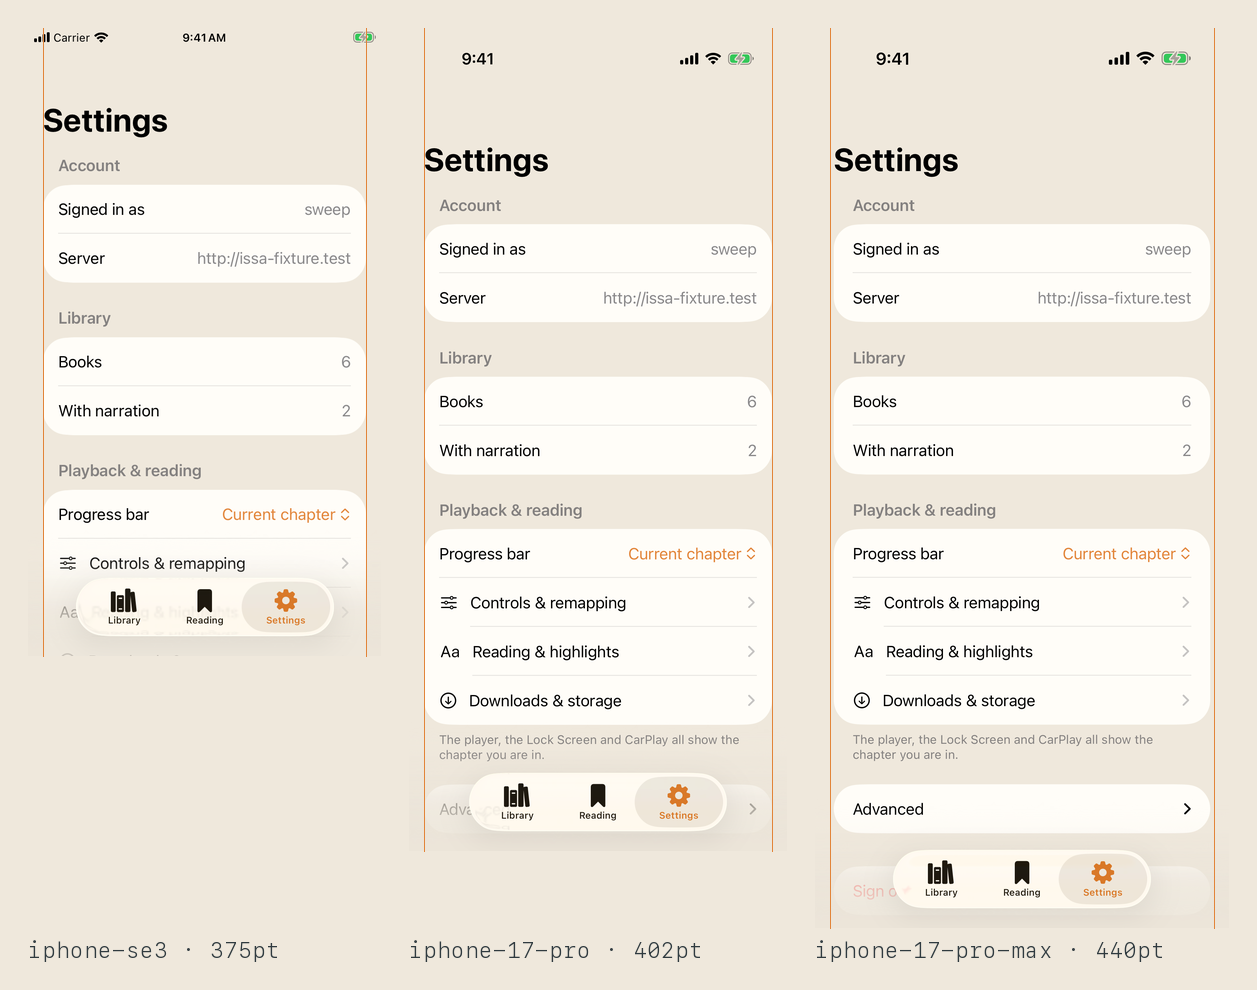
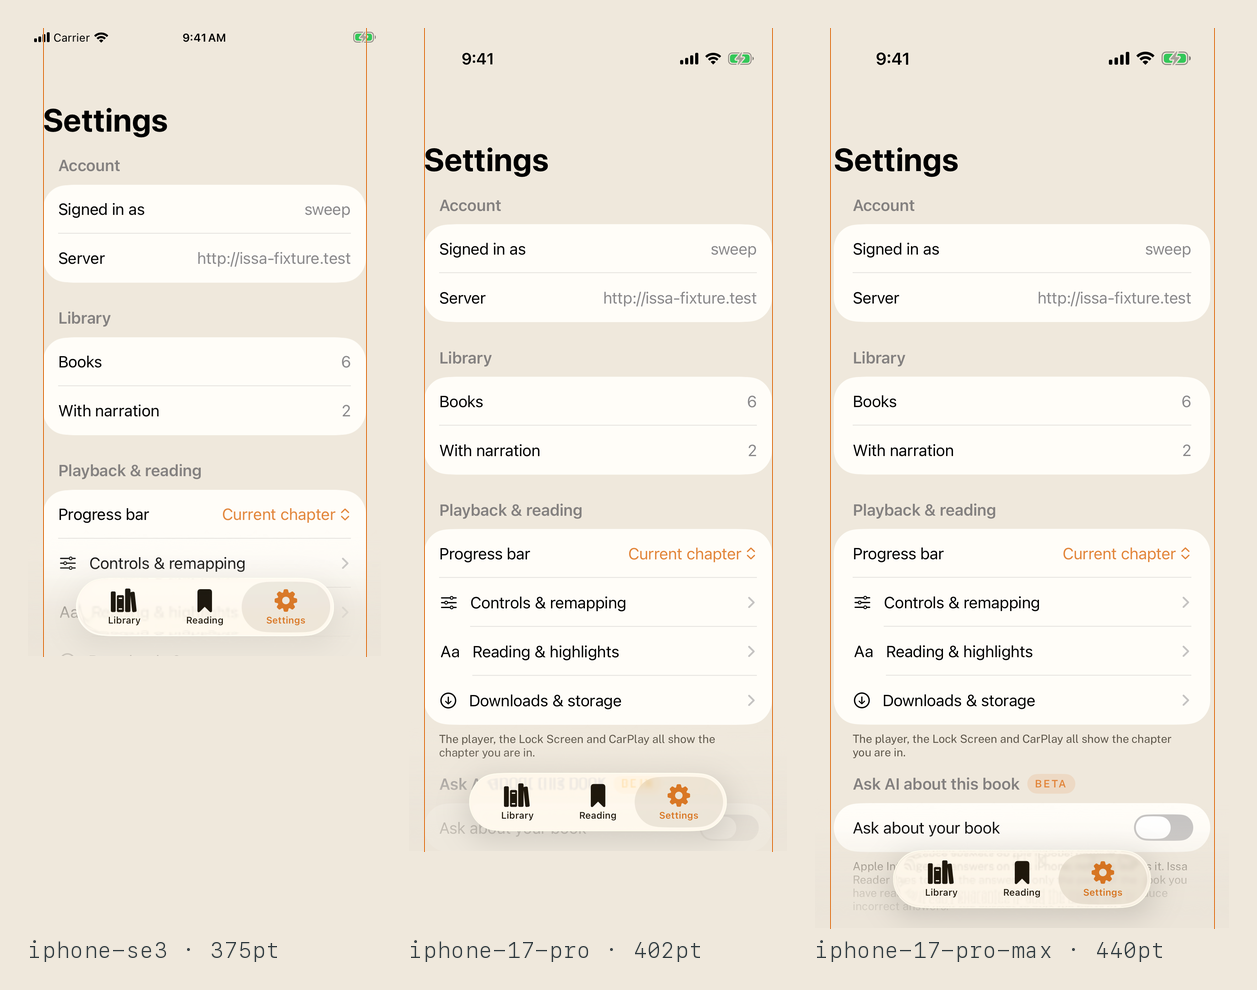
Reserve the Mac's chrome from what a window can actually tell us
The safe-area rung added yesterday never fires: a `GeometryProxy` inside
`.ignoresSafeArea()` reports 0 on the Mac, logged twice from a running build.
So it was a preference with nothing to prefer, and a test pinning behaviour
production never reaches.

What the same instrumentation showed instead is why the first line was
sometimes under the toolbar and sometimes not. At the instant the reader lays
out, the book's own window reports a 32-point gap between its frame and its
content — its toolbar is not attached yet — and 52 once it is;
`NSApplication.keyWindow` is as often nil, or the library window, or the
28-point Now Playing panel. Every source can be too small and none can be too
large, so the fallback becomes a floor: a titlebar and a toolbar, or the
measurement when that is larger. Over-reserving only adds air above the first
line; under-reserving is the bug.

Claude-Session: https://claude.ai/code/session_01YbLHtDvNuHEKJ7aSbFr8hK

diff --git a/Apps/IssaSharedTests/Sources/ReaderInsetsTests.swift b/Apps/IssaSharedTests/Sources/ReaderInsetsTests.swift
@@ -6,50 +6,52 @@ import Testing
 
 /// How far down its window the Mac reader's first line of text may begin.
 ///
-/// The arithmetic is trivial; which window it is about is the whole bug. A book
-/// opens in its own `WindowGroup`, and the reader asked `NSApplication.keyWindow`
-/// — which at first layout is as often the library or the Now Playing panel, a
-/// bare titlebar of about 28 points with no toolbar at all. The page then began
-/// 28 points down under a 52-point toolbar, and nothing ever re-measured it, so
-/// the first line of every book sat half under the chrome for as long as it was
-/// open.
+/// The arithmetic is trivial; knowing which number to trust is the whole bug.
+/// Measured from a running build, at the instant the reader lays out: the
+/// book's own window reports a 32-point gap between its frame and its content
+/// because the toolbar is not attached yet, and 52 once it is;
+/// `NSApplication.keyWindow` is as often nil, or the library window, or the
+/// 28-point Now Playing panel. Reserving any of the small numbers put the first
+/// line under a toolbar that was about to appear, which is why the same book
+/// opened cleanly one time and half under the chrome the next.
 ///
 /// These run on the iOS host, which is why the rule is a pure function outside
 /// the `#if os(macOS)` branch rather than a few lines inline in the branch. A
 /// helper the shared suite cannot reach is how this survived a release.
 @Suite("Where the Mac reader's page begins")
 struct ReaderInsetsTests {
-    @Test("this window's own safe area beats a measurement taken from another")
-    func thisWindowsSafeAreaBeatsAMeasurementFromAnother() {
-        // 52 is the reader's titlebar and toolbar, reported by its own geometry
-        // proxy. 28 is the library window's bare titlebar, which is what AppKit
-        // handed back while the reader was still opening.
-        #expect(ReaderInsets.mac(safeAreaTop: 52, measured: 28) == 52)
+    @Test("a window that has not shown its toolbar yet cannot shrink the reserve")
+    func aWindowWithoutItsToolbarYetCannotShrinkTheReserve() {
+        // 32 is the reader's own window, measured before its toolbar attaches.
+        // Taking it at its word is what put the first line under the chrome.
+        #expect(ReaderInsets.mac(measured: 32) == ReaderInsets.macChromeMinimum)
+        // 28 is the Now Playing panel's bare titlebar — the wrong window
+        // entirely, and the one `keyWindow` hands back most often.
+        #expect(ReaderInsets.mac(measured: 28) == ReaderInsets.macChromeMinimum)
     }
 
-    @Test("the AppKit measurement stands in until the safe area has an answer")
-    func theMeasurementStandsInUntilTheSafeAreaHasAnAnswer() {
-        // SwiftUI reports nothing for a layout pass or two, and the measurement
-        // is exact whenever it happens to be about the right window. Dropping
-        // it would trade a wrong number for a guessed one.
-        #expect(ReaderInsets.mac(safeAreaTop: 0, measured: 28) == 28)
+    @Test("a taller chrome than we assume is believed")
+    func aTallerChromeThanWeAssumeIsBelieved() {
+        // The floor is a floor, not a constant. A toolbar grown by an
+        // accessibility text size, or by a later macOS, has to be cleared too —
+        // and over-reserving only ever costs air above the first line.
+        #expect(ReaderInsets.mac(measured: 76) == 76)
     }
 
-    @Test("with no window to ask, the page falls back to a titlebar's height")
-    func withNoWindowToAskThePageFallsBackToATitlebarsHeight() {
-        // The very first pass, before there is a key window or a laid-out
-        // proxy. A starting value, corrected on the next pass.
-        #expect(ReaderInsets.mac(safeAreaTop: 0, measured: nil) == ReaderInsets.macTitlebarFallback)
+    @Test("with no window to ask, a titlebar and a toolbar are still reserved")
+    func withNoWindowToAskATitlebarAndAToolbarAreStillReserved() {
+        // The first layout pass, before there is a key window at all. This is
+        // the common case, not the corner: the reader lays out while the window
+        // it belongs to is still being made key.
+        #expect(ReaderInsets.mac(measured: nil) == ReaderInsets.macChromeMinimum)
     }
 
-    @Test("a negative inset is clamped rather than passed on")
-    func aNegativeInsetIsClampedRatherThanPassedOn() {
-        // A negative reserve would pull the page up *over* the toolbar, which
-        // is worse than the bug being fixed. Neither source is trusted to be
-        // positive: the safe area has been seen negative mid-transition, and
+    @Test("a negative measurement is a floor away from the page, not a hole in it")
+    func aNegativeMeasurementIsAFloorAwayFromThePage() {
         // `contentLayoutRect` can exceed the frame while a window is resizing.
-        #expect(ReaderInsets.mac(safeAreaTop: -12, measured: 28) == 28)
-        #expect(ReaderInsets.mac(safeAreaTop: -12, measured: -4) == ReaderInsets.macTitlebarFallback)
-        #expect(ReaderInsets.mac(safeAreaTop: -12, measured: nil) >= 0)
+        // A negative reserve would pull the page up *over* the toolbar, which
+        // is worse than the fault being fixed.
+        #expect(ReaderInsets.mac(measured: -4) == ReaderInsets.macChromeMinimum)
+        #expect(ReaderInsets.mac(measured: -4) > 0)
     }
 }

diff --git a/Apps/Shared/Sources/ReaderInsets.swift b/Apps/Shared/Sources/ReaderInsets.swift
@@ -14,13 +14,7 @@ import AppKit
 /// the status bar all change it, and anything measured against it re-paginates
 /// the chapter. Sampled once and held, so a chrome toggle cannot reach the page.
 enum ReaderInsets {
-    /// - Parameter safeAreaTop: What the reader's own geometry reports for its
-    ///   top inset. A `GeometryProxy` inside `.ignoresSafeArea()` still reports
-    ///   the insets the view is ignoring, so this is the reader window's own
-    ///   chrome and nobody else's — which is the whole reason it is passed in.
-    ///   Optional, and unused off the Mac, where the platform's own window is
-    ///   the one to ask.
-    static func current(safeAreaTop: CGFloat? = nil) -> EdgeInsets {
+    static func current() -> EdgeInsets {
         #if canImport(UIKit) && !os(tvOS)
         let window = UIApplication.shared.connectedScenes
             .compactMap { ($0 as? UIWindowScene)?.keyWindow }
@@ -42,13 +36,13 @@ enum ReaderInsets {
         // budget. Pad only the footer and the page keeps its old height, so
         // the last line is pushed under the bar instead.
         //
-        // Bottom only. The titlebar is the top's business, and the top comes
-        // from `mac(safeAreaTop:measured:)`.
+        // Bottom only. The titlebar is the top's business, and `mac` decides
+        // how much of it to keep clear.
         let measured = NSApplication.shared.keyWindow.map {
             max(0, $0.frame.height - $0.contentLayoutRect.height)
         }
         return EdgeInsets(
-            top: mac(safeAreaTop: safeAreaTop ?? 0, measured: measured), leading: 0,
+            top: mac(measured: measured), leading: 0,
             bottom: macWindowCornerInset, trailing: 0)
         #else
         // tvOS reads through TVReadalongView and has no window corners to
@@ -57,36 +51,30 @@ enum ReaderInsets {
         #endif
     }
 
-    /// How far down the reader's window its first line of text may begin: the
-    /// titlebar and the toolbar together.
+    /// How far down its window the Mac reader's first line of text may begin:
+    /// the titlebar and the toolbar together, and never less than one of each.
     ///
     /// Deliberately pure, and deliberately outside the `#if os(macOS)` branch.
     /// The shared suite runs on the iOS host, so a helper buried in the macOS
     /// arm is a helper nothing can test — which is how the reader shipped
-    /// measuring the wrong window.
+    /// reserving too little.
     ///
-    /// The reader's own safe area is preferred because it is the only source
-    /// that is certainly about *this* window. A book opens in its own
-    /// `WindowGroup`, and at first layout the key window is as likely to be the
-    /// library or the Now Playing panel — a bare 28-point titlebar with no
-    /// toolbar at all. The page then began 28 points down under a 52-point
-    /// toolbar, and the measurement was taken once and never corrected, so the
-    /// first line of the book stayed half under the chrome for as long as it
-    /// was open.
-    ///
-    /// The AppKit measurement is kept behind it rather than dropped: it is
-    /// exact when it is about the right window, and `safeAreaTop` is zero for
-    /// the layout pass or two before SwiftUI has an answer.
-    static func mac(safeAreaTop: CGFloat, measured: CGFloat?) -> CGFloat {
-        if safeAreaTop > 0 { return safeAreaTop }
-        if let measured, measured > 0 { return measured }
-        return macTitlebarFallback
+    /// A floor rather than a last resort, because every source of a measurement
+    /// here can be too small and none can be too large. Logged from a running
+    /// build, at the instant the reader lays out: the book's own window reports
+    /// a 32-point gap, because its toolbar is not attached yet, and 52 once it
+    /// is; `NSApplication.keyWindow` is as often nil, or the library window, or
+    /// the 28-point Now Playing panel. Reserving any of the smaller numbers
+    /// puts the first line under a toolbar that is about to appear — which is
+    /// the fault this exists to fix, and why it was intermittent. Reserving
+    /// more than the chrome only adds air above the first line, so the largest
+    /// number anyone can offer is the safe one to take.
+    static func mac(measured: CGFloat?) -> CGFloat {
+        max(measured ?? 0, macChromeMinimum)
     }
 
-    /// Used only before either source has anything to say — the first layout
-    /// pass. `onChange(of: geometry.size, initial: true)` re-samples once the
-    /// window is real, so this is a starting value, not the answer.
-    static let macTitlebarFallback: CGFloat = 52
+    /// A titlebar and a toolbar, which is what every reader window has.
+    static let macChromeMinimum: CGFloat = 52
 
     /// The Mac window's bottom corner radius, near enough, plus a little air.
     ///

diff --git a/Apps/Shared/Sources/SettingsFooter.swift b/Apps/Shared/Sources/SettingsFooter.swift
@@ -7,16 +7,28 @@ public extension View {
     /// Every footer in the app wants the same three things, and a footer that
     /// carries none of them is nearly unreadable on the Mac. Without a colour
     /// it lands on AppKit's `secondaryLabelColor`, which is chosen against a
-    /// system window rather than this app's cream `Palette.surface`; without
-    /// `fixedSize` a macOS `List` hands the footer row its content's
-    /// single-line ideal height, so anything longer than the window is wide
-    /// truncates to one line and an ellipsis.
+    /// system window rather than this app's cream `Palette.surface`.
+    ///
+    /// The other two are less obvious, and each was arrived at by watching the
+    /// Mac fail without it. A macOS section footer inherits a one-line limit
+    /// from its container, so `fixedSize` alone — the treatment every non-footer
+    /// hint in this app uses — still truncates to a single line and an ellipsis;
+    /// `lineLimit(nil)` is what lifts that. But lifting it alone wraps the text
+    /// inside a row still sized for one line, so the first and last lines are
+    /// cut through the middle: a footer row is proposed a width only once
+    /// something in it insists on filling one. The `Spacer` insists, the `Text`
+    /// is measured against the row's real width, and the row finally grows to
+    /// the height that answer needs.
     ///
     /// So: apply this to the `Text` in every `Section(footer:)`, rather than
     /// letting the platforms drift a font apart from each other.
     func settingsFooter() -> some View {
-        font(Typography.footnote)
-            .foregroundStyle(Palette.inkSecondary)
-            .fixedSize(horizontal: false, vertical: true)
+        HStack(spacing: 0) {
+            font(Typography.footnote)
+                .foregroundStyle(Palette.inkSecondary)
+                .lineLimit(nil)
+            Spacer(minLength: 0)
+        }
+        .fixedSize(horizontal: false, vertical: true)
     }
 }

diff --git a/Apps/Shared/Sources/ReaderView.swift b/Apps/Shared/Sources/ReaderView.swift
@@ -273,16 +273,7 @@ public struct ReaderView: View {
             // Re-sample on a genuine size change — a rotation or a split view
             // — where the unsafe edges really are different. A chrome toggle
             // does not change the window's size, so it never lands here.
-            //
-            // The reader's own top inset is handed over rather than looked up,
-            // because on the Mac there is no way to look it up: a book opens in
-            // its own window and the key window at first layout is as often the
-            // library or the Now Playing panel. This proxy is inside
-            // `.ignoresSafeArea()`, which still reports the insets it is
-            // ignoring — so it is this window's toolbar, and no other's.
-            .onChange(of: geometry.size, initial: true) {
-                deviceInsets = ReaderInsets.current(safeAreaTop: geometry.safeAreaInsets.top)
-            }
+            .onChange(of: geometry.size, initial: true) { deviceInsets = ReaderInsets.current() }
         }
         // Measure the window, not the safe-area content box.
         .ignoresSafeArea()
